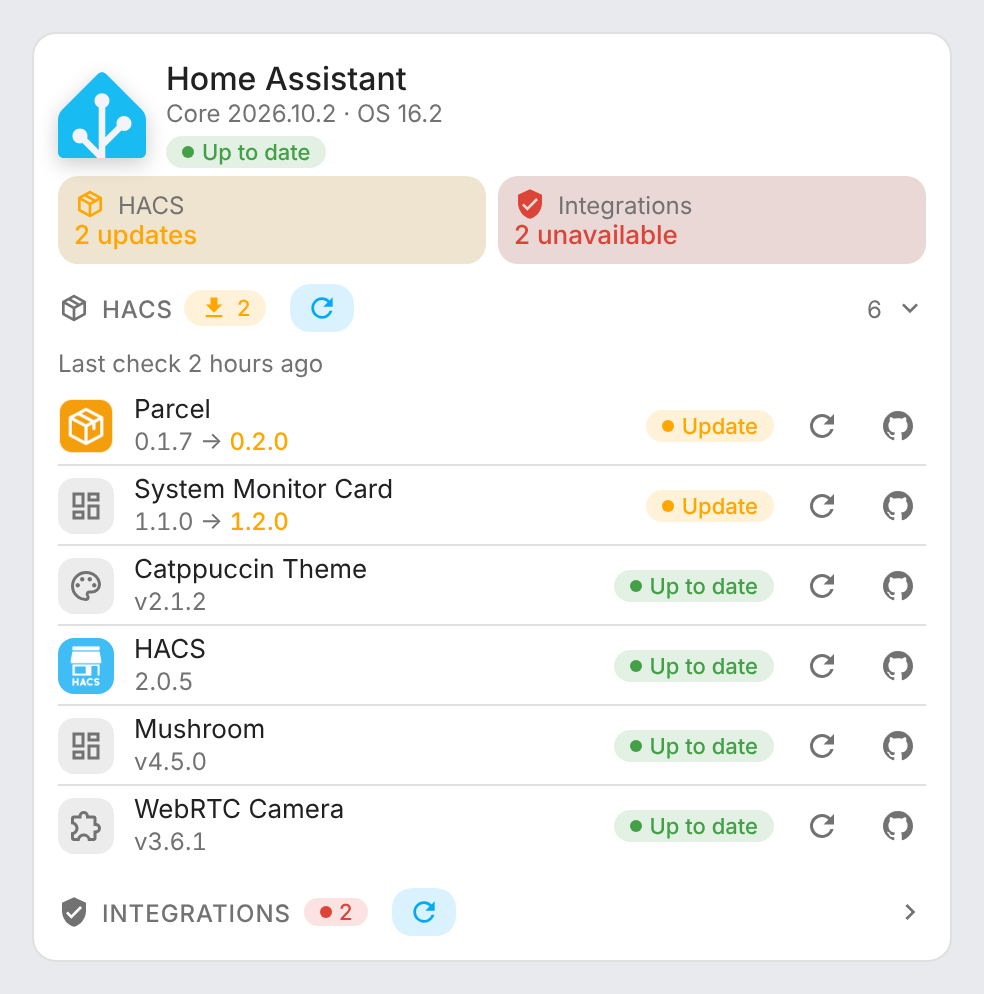
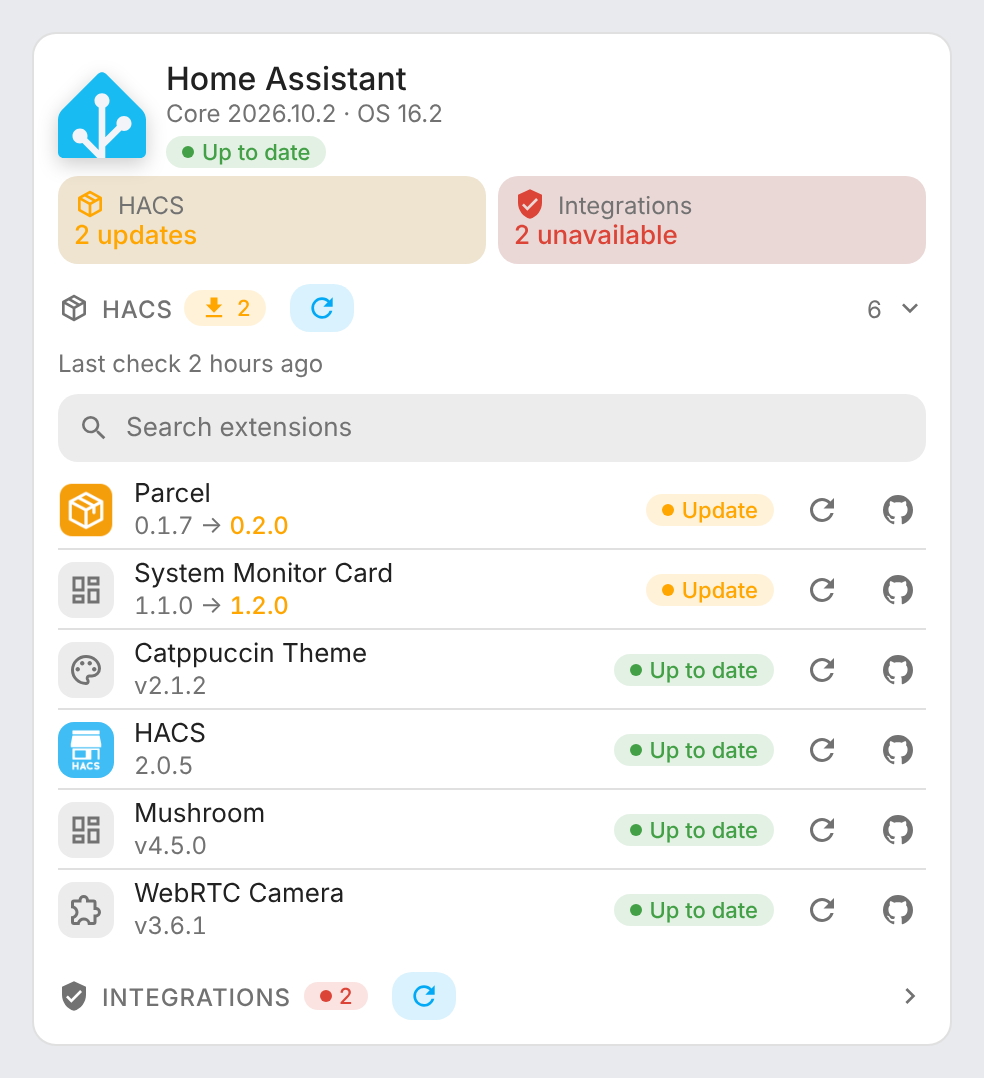
HACS list: search field that filters as you type (1.12.0)
Claude-Session: https://claude.ai/code/session_015e2X8Qi9QxHZriBAG7sbTf

diff --git a/src/system-monitor-card.js b/src/system-monitor-card.js
@@ -27,6 +27,7 @@ const ICONS = {
   swap: "M21,9L17,5V8H10V10H17V13M7,11L3,15L7,19V16H14V14H7V11Z",
   hacs: "M21,16.5C21,16.88 20.79,17.21 20.47,17.38L12.57,21.82C12.41,21.94 12.21,22 12,22C11.79,22 11.59,21.94 11.43,21.82L3.53,17.38C3.21,17.21 3,16.88 3,16.5V7.5C3,7.12 3.21,6.79 3.53,6.62L11.43,2.18C11.59,2.06 11.79,2 12,2C12.21,2 12.41,2.06 12.57,2.18L20.47,6.62C20.79,6.79 21,7.12 21,7.5V16.5M12,4.15L10.11,5.22L16,8.61L17.96,7.5L12,4.15M6.04,7.5L12,10.85L13.96,9.75L8.08,6.35L6.04,7.5M5,15.91L11,19.29V12.58L5,9.21V15.91M19,15.91V9.21L13,12.58V19.29L19,15.91Z",
   github: "M12,2A10,10 0 0,0 2,12C2,16.42 4.87,20.17 8.84,21.5C9.34,21.58 9.5,21.27 9.5,21C9.5,20.77 9.5,20.14 9.5,19.31C6.73,19.91 6.14,17.97 6.14,17.97C5.68,16.81 5.03,16.5 5.03,16.5C4.12,15.88 5.1,15.9 5.1,15.9C6.1,15.97 6.63,16.93 6.63,16.93C7.5,18.45 8.97,18 9.54,17.76C9.63,17.11 9.89,16.67 10.17,16.42C7.95,16.17 5.62,15.31 5.62,11.5C5.62,10.39 6,9.5 6.65,8.79C6.55,8.54 6.2,7.5 6.75,6.15C6.75,6.15 7.59,5.88 9.5,7.17C10.29,6.95 11.15,6.84 12,6.84C12.85,6.84 13.71,6.95 14.5,7.17C16.41,5.88 17.25,6.15 17.25,6.15C17.8,7.5 17.45,8.54 17.35,8.79C18,9.5 18.38,10.39 18.38,11.5C18.38,15.32 16.04,16.16 13.81,16.41C14.17,16.72 14.5,17.33 14.5,18.26C14.5,19.6 14.5,20.68 14.5,21C14.5,21.27 14.66,21.59 15.17,21.5C19.14,20.16 22,16.42 22,12A10,10 0 0,0 12,2Z",
+  search: "M9.5,3A6.5,6.5 0 0,1 16,9.5C16,11.11 15.41,12.59 14.44,13.73L14.71,14H15.5L20.5,19L19,20.5L14,15.5V14.71L13.73,14.44C12.59,15.41 11.11,16 9.5,16A6.5,6.5 0 0,1 3,9.5A6.5,6.5 0 0,1 9.5,3M9.5,5C7,5 5,7 5,9.5C5,12 7,14 9.5,14C12,14 14,12 14,9.5C14,7 12,5 9.5,5Z",
   refresh: "M17.65,6.35C16.2,4.9 14.21,4 12,4A8,8 0 0,0 4,12A8,8 0 0,0 12,20C15.73,20 18.84,17.45 19.73,14H17.65C16.83,16.33 14.61,18 12,18A6,6 0 0,1 6,12A6,6 0 0,1 12,6C13.66,6 15.14,6.69 16.22,7.78L13,11H20V4L17.65,6.35Z",
   download: "M5,20H19V18H5M19,9H15V3H9V9H5L12,16L19,9Z",
   watchdog: "M10,17L6,13L7.41,11.59L10,14.17L16.59,7.58L18,9M12,1L3,5V11C3,16.55 6.84,21.74 12,23C17.16,21.74 21,16.55 21,11V5L12,1Z",
@@ -74,6 +75,8 @@ const STRINGS = {
     needs_refresh: "Install HACS Refresh to check every extension for updates from Home Assistant.",
     github: "Open on GitHub",
     check_ext: "Check this extension for updates",
+    search_ext: "Search extensions",
+    no_match: "No matching extension",
     install_all: "Install all updates ({n})",
     install_all_confirm: "Install {n} HACS updates?",
     installing: "Installing {i}/{n}…",
@@ -154,6 +157,8 @@ const STRINGS = {
     needs_refresh: "Installez HACS Refresh pour rechercher les mises à jour de toutes les extensions depuis Home Assistant.",
     github: "Ouvrir sur GitHub",
     check_ext: "Rechercher les mises à jour de cette extension",
+    search_ext: "Rechercher une extension",
+    no_match: "Aucune extension trouvée",
     install_all: "Installer toutes les mises à jour ({n})",
     install_all_confirm: "Installer {n} mises à jour HACS ?",
     installing: "Installation {i}/{n}…",
@@ -207,6 +212,9 @@ const STRINGS = {
 
 const esc = (v) =>
   String(v ?? "").replace(/[&<>"']/g, (c) => ({ "&": "&amp;", "<": "&lt;", ">": "&gt;", '"': "&quot;", "'": "&#39;" })[c]);
+
+/** Lower case without accents, for searching. */
+const fold = (v) => String(v ?? "").normalize("NFD").replace(/[\u0300-\u036f]/g, "").toLowerCase();
 
 const lang = (hass, config) => {
   const l = (config && config.language) || (hass && (hass.locale?.language || hass.language)) || "en";
@@ -559,6 +567,7 @@ class SystemMonitorBase extends HTMLElement {
     this.attachShadow({ mode: "open" });
     this._html = "";
     this._hacsOpen = false;
+    this._hacsQuery = "";
     this._wdOpen = false;
     this._procsOpen = false;
     this._imgFailed = new Set();
@@ -568,7 +577,11 @@ class SystemMonitorBase extends HTMLElement {
       if (path.some((n) => n.tagName === "A")) return;
       const action = path.find((n) => n.dataset && n.dataset.action);
       if (action) {
-        if (action.dataset.action === "hacs") this._hacsOpen = !this._hacsOpen;
+        if (action.dataset.action === "hacs") {
+          this._hacsOpen = !this._hacsOpen;
+          // Folding the list clears the search.
+          if (!this._hacsOpen) this._hacsQuery = "";
+        }
         if (action.dataset.action === "wd") this._wdOpen = !this._wdOpen;
         // With a process stopped, the list stays unfolded.
         if (action.dataset.action === "procs" && !this._procsKo()) this._procsOpen = !this._procsOpen;
@@ -590,6 +603,18 @@ class SystemMonitorBase extends HTMLElement {
         ev.preventDefault();
         ev.target.click();
       }
+    });
+    // HACS search field: filters the list as you type; Escape clears it.
+    this.shadowRoot.addEventListener("input", (ev) => {
+      if (ev.target?.dataset?.search !== "hacs") return;
+      this._hacsQuery = ev.target.value;
+      this._update();
+    });
+    this.shadowRoot.addEventListener("keydown", (ev) => {
+      if (ev.key !== "Escape" || ev.target?.dataset?.search !== "hacs" || !this._hacsQuery) return;
+      ev.stopPropagation();
+      this._hacsQuery = "";
+      this._update();
     });
     // Logos load dynamically: on error, try the next source, then fall back to the category icon.
     this.shadowRoot.addEventListener(
@@ -617,6 +642,7 @@ class SystemMonitorBase extends HTMLElement {
     this._onOutside ??= (ev) => {
       if ((!this._hacsOpen && !this._wdOpen && !this._procsOpen) || ev.composedPath().includes(this)) return;
       this._hacsOpen = false;
+      this._hacsQuery = "";
       this._wdOpen = false;
       this._procsOpen = false;
       this._update();
@@ -766,8 +792,19 @@ class SystemMonitorBase extends HTMLElement {
     if (!this._hass || !this._config) return;
     const html = this._render();
     if (html !== this._html) {
+      // Re-rendering replaces the search field: keep its focus and caret.
+      const active = this.shadowRoot.activeElement;
+      const search = active?.dataset?.search;
+      const caret = search ? [active.selectionStart, active.selectionEnd] : null;
       this._html = html;
       this.shadowRoot.innerHTML = html;
+      if (search) {
+        const field = this.shadowRoot.querySelector(`[data-search="${search}"]`);
+        if (field) {
+          field.focus();
+          field.setSelectionRange(...caret);
+        }
+      }
     }
   }
 
@@ -923,6 +960,13 @@ const FULL_STYLE = `
   .toolbar .hint { font-size: 12px; color: var(--secondary-text-color); text-decoration: none; }
   .toolbar .hint:hover { text-decoration: underline; }
   .exts { margin-top: 4px; }
+  .hacs .search { display: flex; align-items: center; gap: 6px; margin: 8px 0 4px; padding: 0 10px; height: 34px; border-radius: 10px;
+                  background: var(--secondary-background-color, rgba(127,127,127,.08)); color: var(--secondary-text-color); cursor: text; }
+  .hacs .search:focus-within { outline: 2px solid var(--sm-blue); outline-offset: -2px; }
+  .hacs .search .icon { width: 16px; height: 16px; }
+  .hacs .search input { flex: 1; min-width: 0; border: 0; outline: 0; background: none; font: inherit; font-size: 13px; color: var(--primary-text-color); }
+  .hacs .search input::placeholder { color: var(--secondary-text-color); }
+  .exts .empty { padding: 8px 0; font-size: 13px; }
   .ext { display: flex; align-items: center; gap: 10px; padding: 4px 0; font-size: 13px; }
   .ext + .ext { border-top: 1px solid var(--divider-color, rgba(127,127,127,.25)); }
   .ext .grow { flex: 1; min-width: 0; }
@@ -1186,7 +1230,12 @@ class SystemMonitorCard extends SystemMonitorBase {
     const serverChecking = new Set(st?.attributes?.checking || []);
     // Without a GitHub link, keep its slot so the buttons stay aligned with the other rows.
     const hasRepo = ext.some((x) => x.repo);
-    const rows = ext.map((x) => {
+    const query = fold(this._hacsQuery.trim());
+    const shown = query ? ext.filter((x) => fold(`${x.name} ${x.repo || ""}`).includes(query)) : ext;
+    const search = `<label class="search">${svgIcon(ICONS.search)}<input type="search" data-search="hacs" value="${esc(
+      this._hacsQuery
+    )}" placeholder="${esc(this._t("search_ext"))}" aria-label="${esc(this._t("search_ext"))}" autocomplete="off" spellcheck="false"></label>`;
+    const rows = shown.map((x) => {
       const ver = x.update ? `${esc(x.installed || "?")} → <b>${esc(x.latest || "?")}</b>` : esc(x.installed || "—");
       const status = x.update
         ? `<span class="chip warn"><span class="dot"></span>${esc(this._t("update"))}</span>`
@@ -1206,7 +1255,8 @@ class SystemMonitorCard extends SystemMonitorBase {
           ${status}${check}${gh}
         </div>`;
     });
-    return `<div class="hacs">${head}${info}<div class="exts">${rows.join("")}</div></div>`;
+    const list = rows.length ? rows.join("") : `<div class="muted empty">${esc(this._t("no_match"))}</div>`;
+    return `<div class="hacs">${head}${info}${search}<div class="exts">${list}</div></div>`;
   }
 
   /**

diff --git a/README.md b/README.md
@@ -27,7 +27,7 @@ The cards are built on top of the core [System Monitor integration](https://www.
 - Network download / upload rates and totals, per interface (virtual interfaces such as `docker0` or `hassio` are hidden)
 - Storage: every monitored mount point and the swap, with used space
 - Monitored processes, green when running and red when stopped: hidden while they all run (their status tile shows the list on a click), always shown while one is stopped, with their overall status in the status row
-- **HACS extensions**: a collapsible list of every repository downloaded with HACS, with its logo, version, update status and a GitHub button, plus a **Check for updates** button that runs on the server through [HACS Refresh](https://github.com/juju35/ha-hacs-refresh); its overall status sits in the status row
+- **HACS extensions**: a collapsible list of every repository downloaded with HACS, with its logo, version, update status and a GitHub button, a search field that filters it as you type, plus a **Check for updates** button that runs on the server through [HACS Refresh](https://github.com/juju35/ha-hacs-refresh); its overall status sits in the status row
 - **Unavailable integrations**: with [Integration Watchdog](https://github.com/juju35/ha-integration-watchdog), a collapsible list of the integrations whose entities are all unavailable, with their logo, since when, how many times they were reloaded and whether the watchdog gave up, plus the last reload and a **Check now** button; its overall status sits in the status row
 - Colors turn orange / red when a threshold is crossed (CPU, RAM, disk, temperature)
 - Click any value to open its Home Assistant history (more-info dialog)
@@ -185,7 +185,7 @@ The processes section is hidden while every monitored process runs: the **Proces
 
 ### HACS extensions
 
-HACS creates an update entity for every repository it downloaded. The card lists them with their name and category (from the HACS device), installed and latest version, and the GitHub repository (from the release URL). The list is folded by default: click the **HACS** section, or its tile in the status row, to unfold it. Click a line to open its update dialog (release notes, install), its refresh button to check that extension alone for updates (needs HACS Refresh 0.2.0 or later), or the GitHub button to open the repository.
+HACS creates an update entity for every repository it downloaded. The card lists them with their name and category (from the HACS device), installed and latest version, and the GitHub repository (from the release URL). The list is folded by default: click the **HACS** section, or its tile in the status row, to unfold it. Click a line to open its update dialog (release notes, install), its refresh button to check that extension alone for updates (needs HACS Refresh 0.2.0 or later), or the GitHub button to open the repository. The search field at the top of the unfolded list filters it as you type, by name or GitHub repository (case and accents ignored); Escape clears it, and folding the list clears it too.
 
 Logos are loaded dynamically, best source first:
 

diff --git a/CHANGELOG.md b/CHANGELOG.md
@@ -1,5 +1,10 @@
 # Changelog
 
+## 1.12.0
+
+### Changes
+- HACS list: a search field at the top of the list filters the extensions as you type (by name or GitHub repository, ignoring case and accents). Escape clears it, and folding the list clears it too.
+
 ## 1.11.2
 
 ### Fixes
